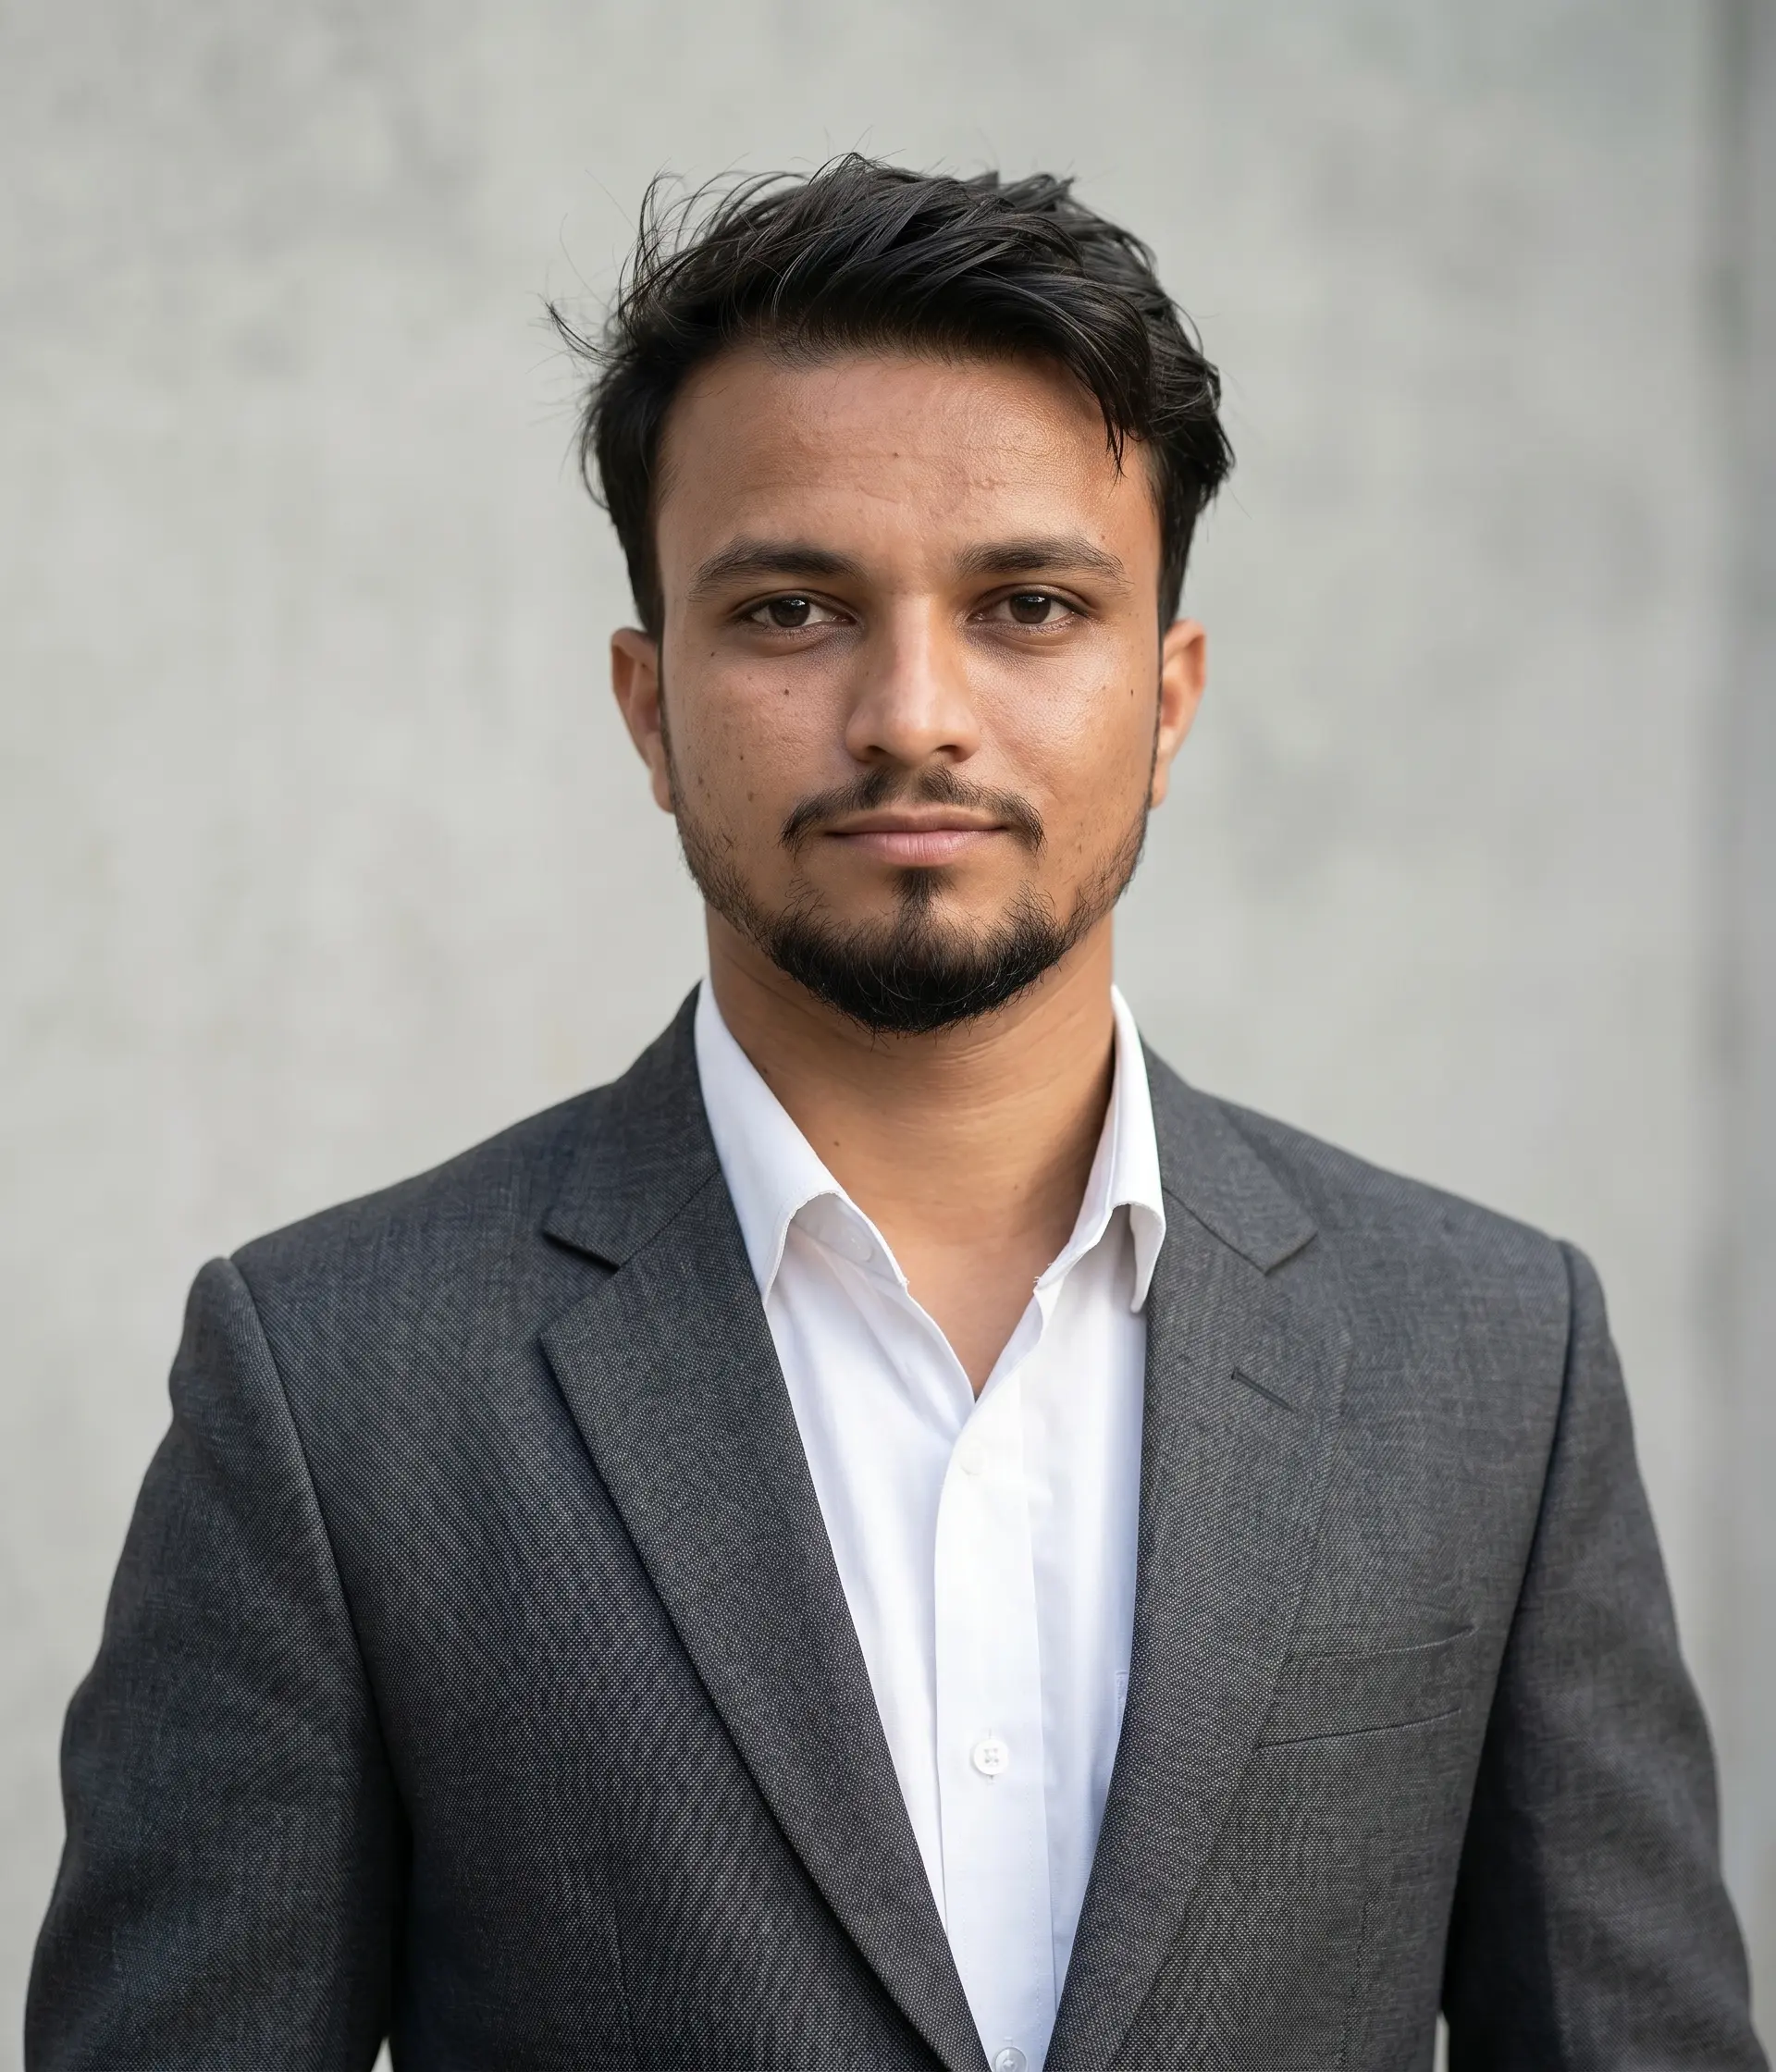
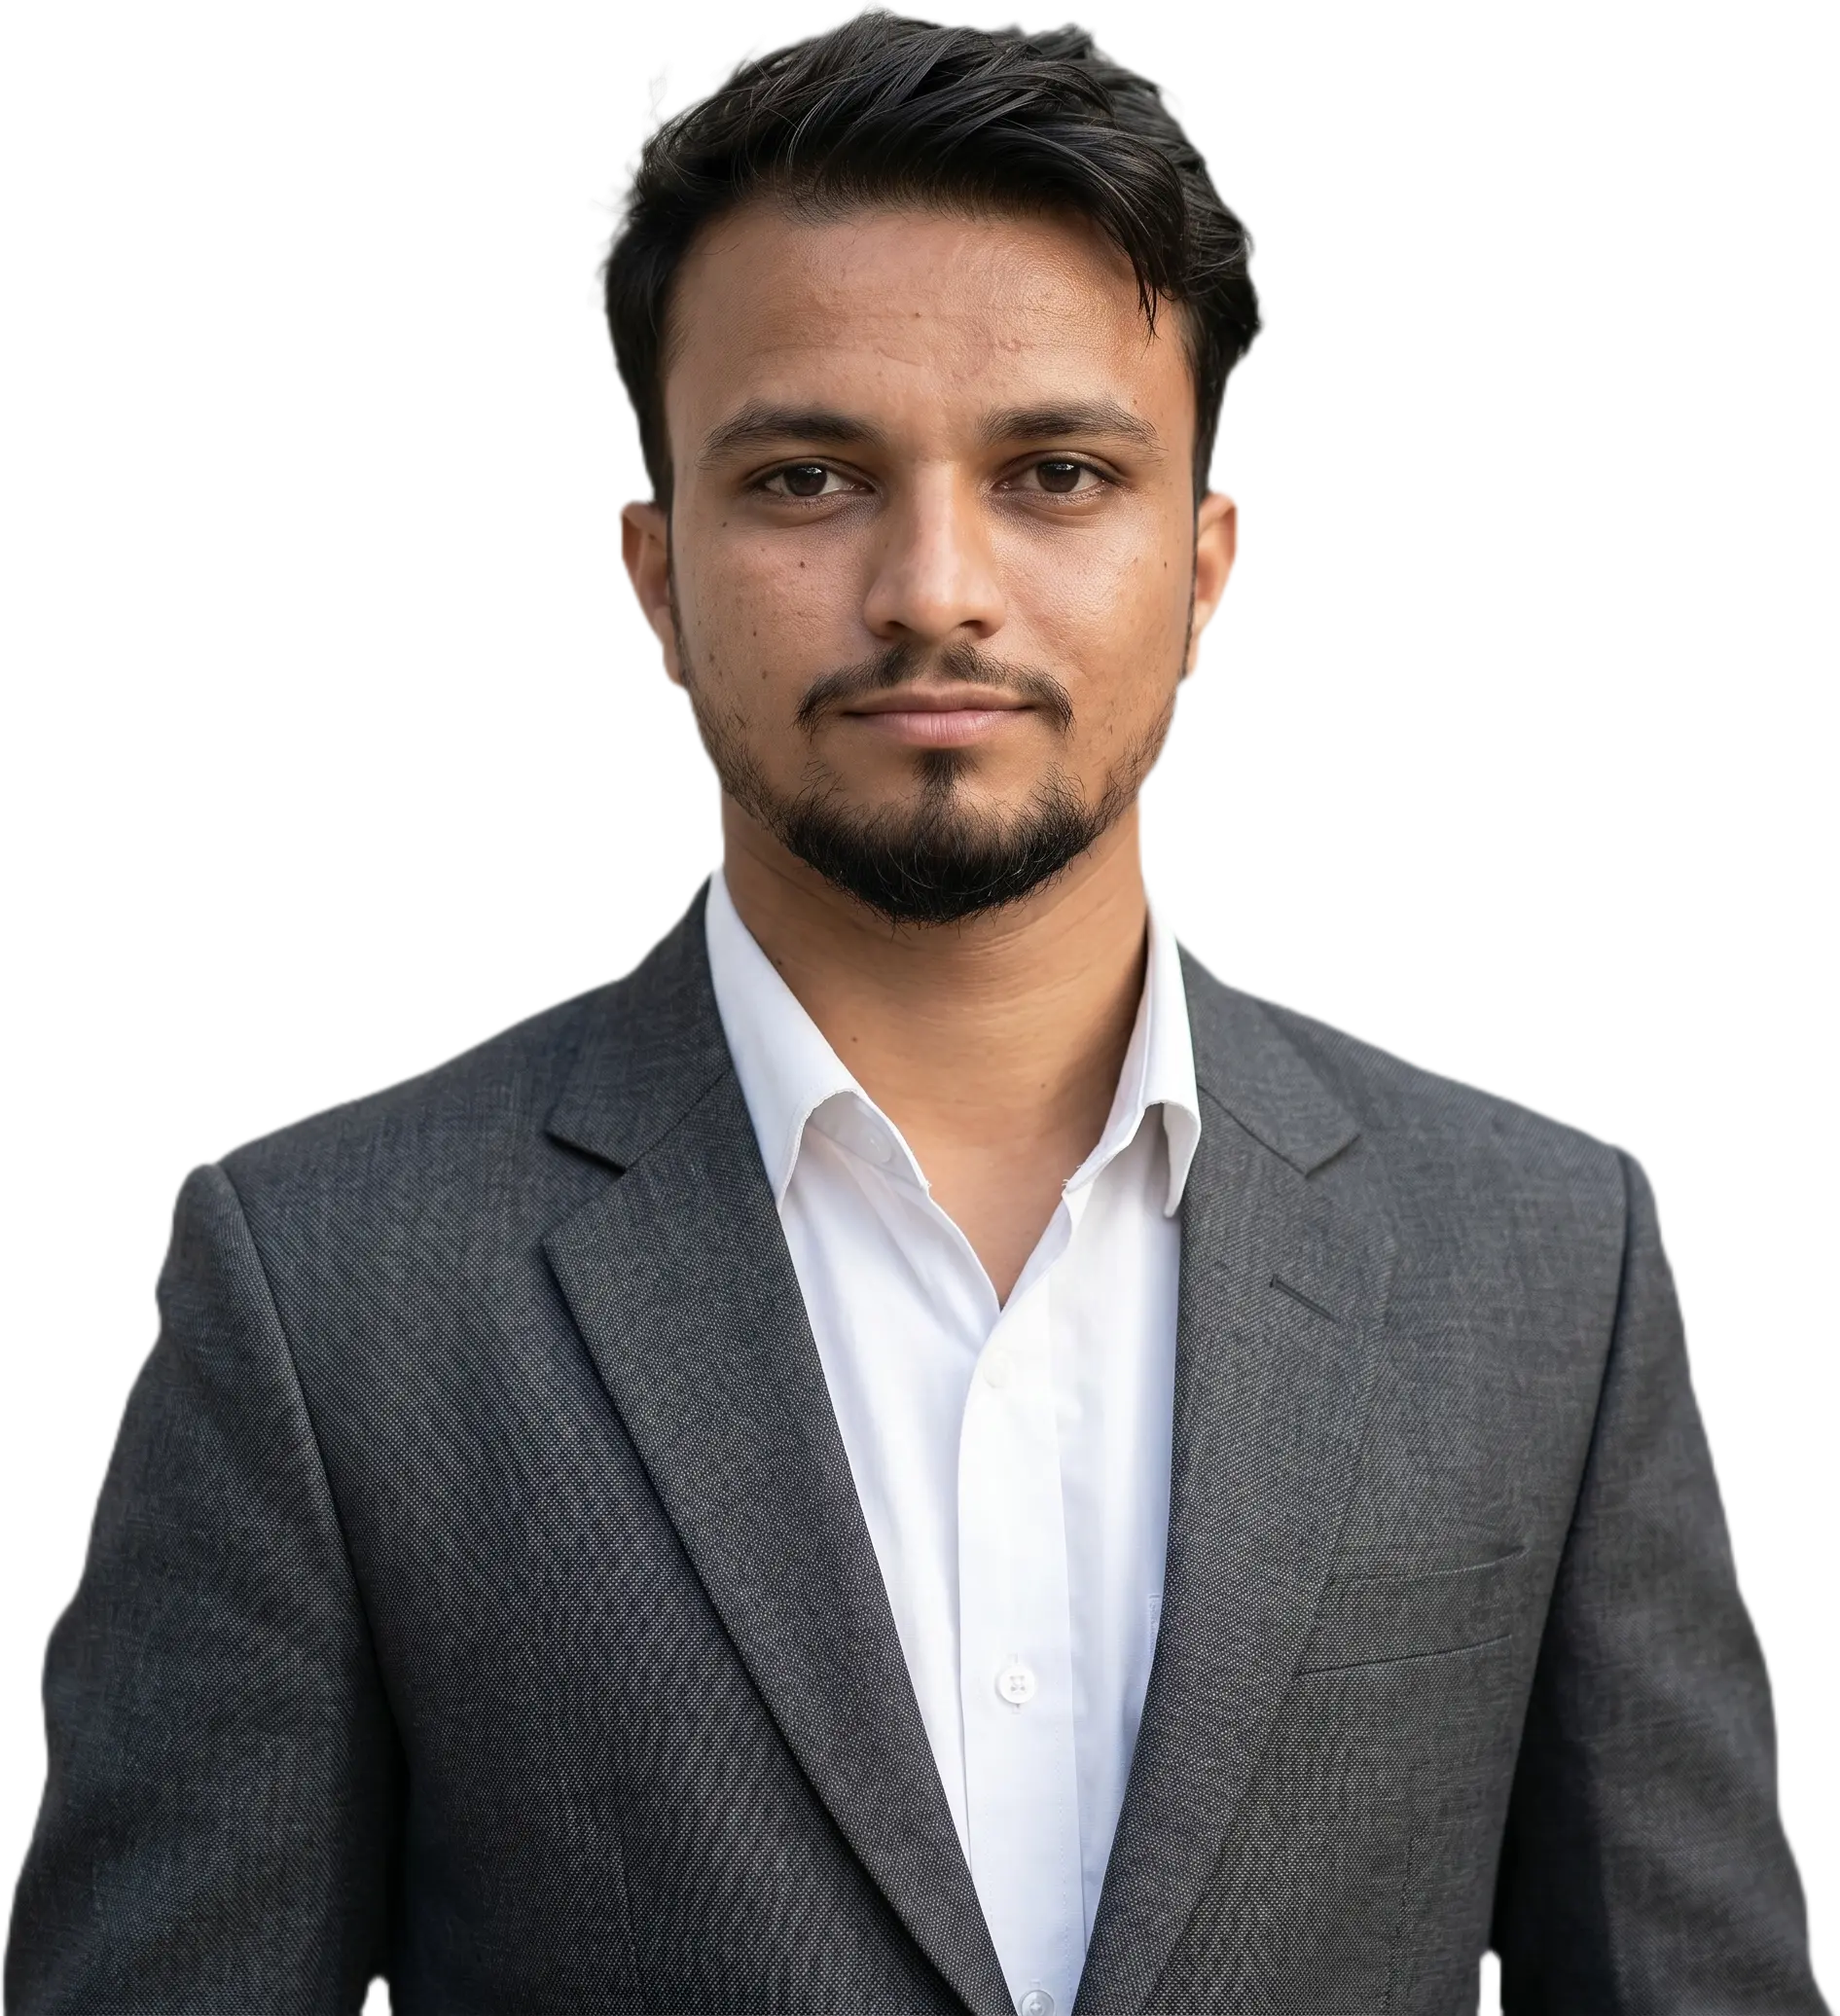
update

diff --git a/src/App.tsx b/src/App.tsx
@@ -1,5 +1,5 @@
 import { motion } from "framer-motion";
-import farhanPhoto from "@/assets/farhan.png";
+import farhanPhoto from "@/assets/farhan.webp";
 import { projects as projectList, type Project } from "@/data/projects";
 import { socials as socialList } from "@/data/socials";
 import {